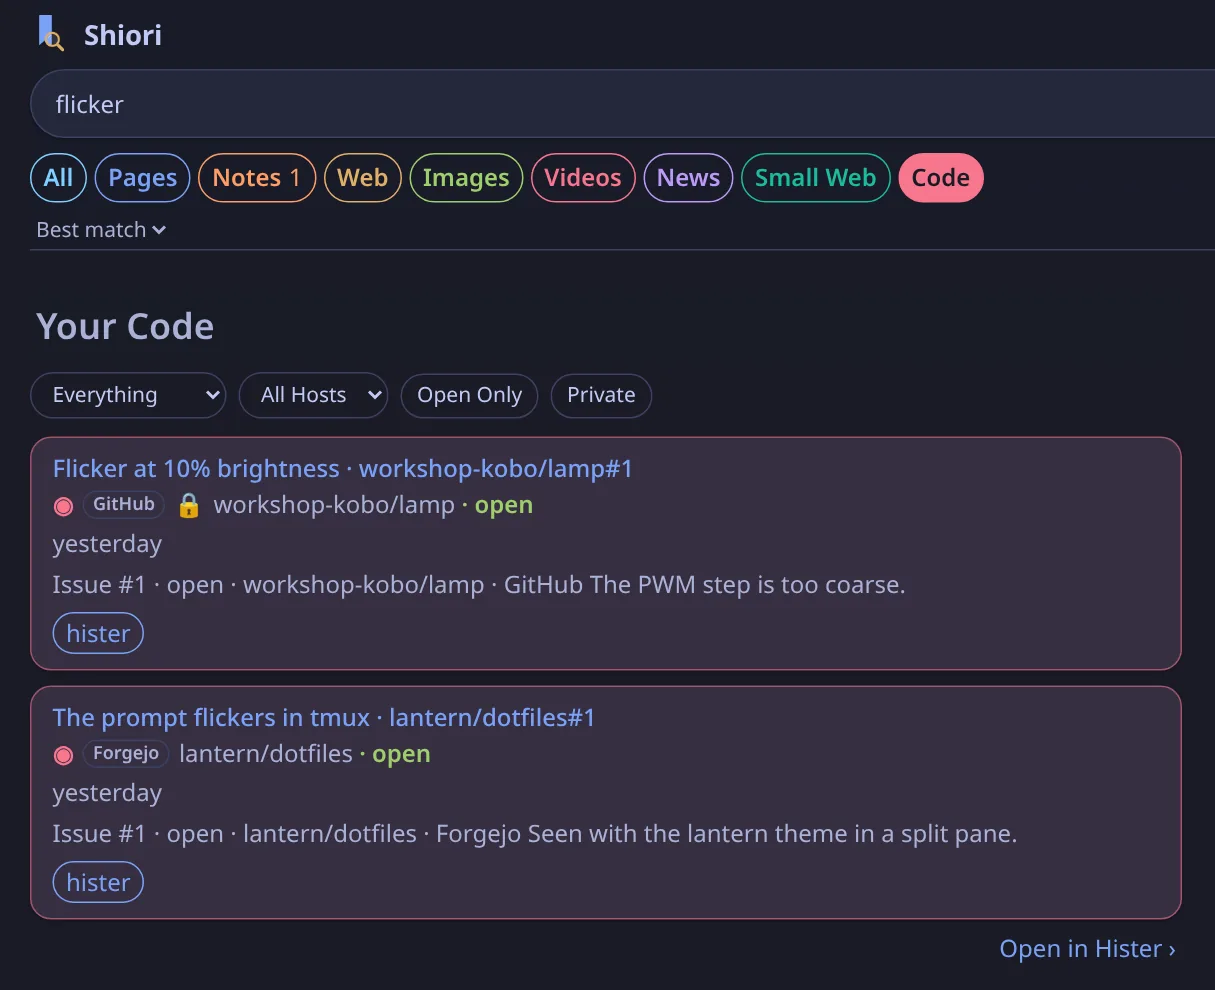
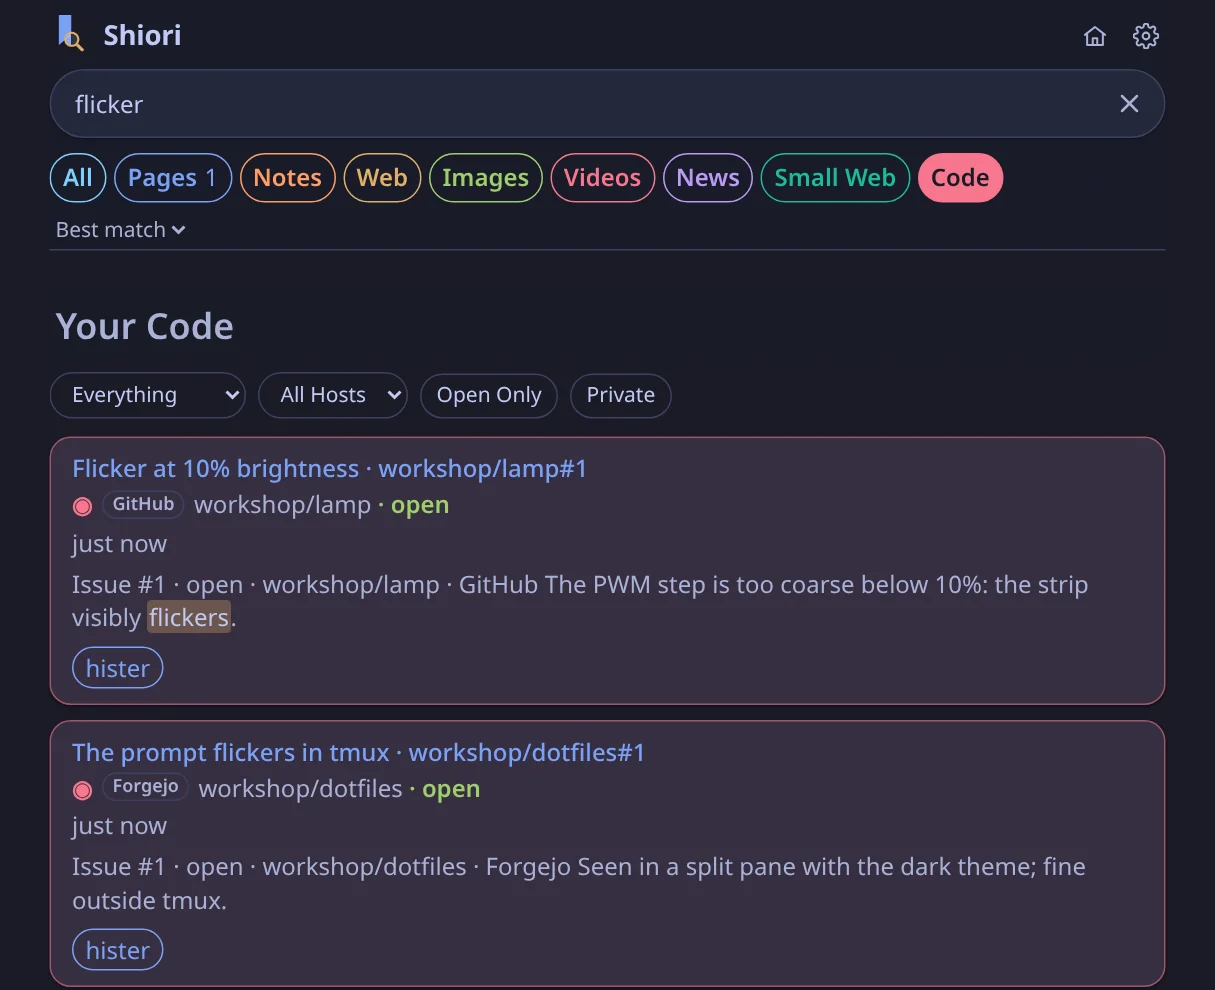
machiya: site: Shiori's screenshots retaken from today's app on its sample seed (Archive.org and Archive.is buttons, the new search field), with alt text to match (from shiori's tools/screenshots --site, 6f9100a)

diff --git a/site/index.html b/site/index.html
@@ -42,11 +42,11 @@
       <div class="hero-shot">
         <picture class="only-light">
           <source media="(max-width: 640px)" srcset="img/hero-phone-light.webp" width="780" height="1688">
-          <img src="img/hero-light.webp" width="2560" height="1600" loading="lazy" decoding="async" fetchpriority="high" alt="Shiori, the Machiya search app, with results for washi. A saved page, Washi grades for lantern skins, and a note, Washi paper tests, are listed together with a web result. The saved page is open on the right.">
+          <img src="img/hero-light.webp" width="2560" height="1600" loading="lazy" decoding="async" fetchpriority="high" alt="Shiori, the Machiya search app, with results for washi: a web result, your saved pages How washi paper is made and Kozo, mitsumata and gampi, and your note Lantern festival kit in one list. The saved page How washi paper is made is open on the right.">
         </picture>
         <picture class="only-dark">
           <source media="(max-width: 640px)" srcset="img/hero-phone-dark.webp" width="780" height="1688">
-          <img src="img/hero-dark.webp" width="2560" height="1600" loading="lazy" decoding="async" fetchpriority="high" alt="Shiori, the Machiya search app, with results for washi. A saved page, Washi grades for lantern skins, and a note, Washi paper tests, are listed together with a web result. The saved page is open on the right.">
+          <img src="img/hero-dark.webp" width="2560" height="1600" loading="lazy" decoding="async" fetchpriority="high" alt="Shiori, the Machiya search app, with results for washi: a web result, your saved pages How washi paper is made and Kozo, mitsumata and gampi, and your note Lantern festival kit in one list. The saved page How washi paper is made is open on the right.">
         </picture>
       </div>
     </div>
@@ -61,10 +61,10 @@
       </div>
       <figure class="feature-shot">
         <picture class="only-light">
-          <img src="img/pages-light.webp" width="1215" height="1080" loading="lazy" decoding="async" alt="Shiori's Pages tab for the search lantern: saved pages about washi grades and autumn lantern festivals in Kyoto, each with its labels and a link to the saved copy.">
+          <img src="img/pages-light.webp" width="1215" height="1080" loading="lazy" decoding="async" alt="Shiori's Pages tab for the search lantern: your saved pages Folding a chōchin lantern, Restoring an old paper lantern and Kyoto's summer lantern festival, each with its labels and Archive.org and Archive.is buttons.">
         </picture>
         <picture class="only-dark">
-          <img src="img/pages-dark.webp" width="1215" height="1080" loading="lazy" decoding="async" alt="Shiori's Pages tab for the search lantern: saved pages about washi grades and autumn lantern festivals in Kyoto, each with its labels and a link to the saved copy.">
+          <img src="img/pages-dark.webp" width="1215" height="1080" loading="lazy" decoding="async" alt="Shiori's Pages tab for the search lantern: your saved pages Folding a chōchin lantern, Restoring an old paper lantern and Kyoto's summer lantern festival, each with its labels and Archive.org and Archive.is buttons.">
         </picture>
       </figure>
     </div>
@@ -79,10 +79,10 @@
       </div>
       <figure class="feature-shot">
         <picture class="only-light">
-          <img src="img/web-light.webp" width="1920" height="1080" loading="lazy" decoding="async" alt="Shiori with results for kyoto lanterns: web results, a saved page about autumn lantern festivals in Kyoto, and an info box about paper lanterns.">
+          <img src="img/web-light.webp" width="1920" height="1080" loading="lazy" decoding="async" alt="Shiori with results for kyoto lanterns: web results with your saved page Kyoto's summer lantern festival among them, each with Archive.org and Archive.is buttons, and an Info box about paper lanterns on the right.">
         </picture>
         <picture class="only-dark">
-          <img src="img/web-dark.webp" width="1920" height="1080" loading="lazy" decoding="async" alt="Shiori with results for kyoto lanterns: web results, a saved page about autumn lantern festivals in Kyoto, and an info box about paper lanterns.">
+          <img src="img/web-dark.webp" width="1920" height="1080" loading="lazy" decoding="async" alt="Shiori with results for kyoto lanterns: web results with your saved page Kyoto's summer lantern festival among them, each with Archive.org and Archive.is buttons, and an Info box about paper lanterns on the right.">
         </picture>
       </figure>
     </div>
